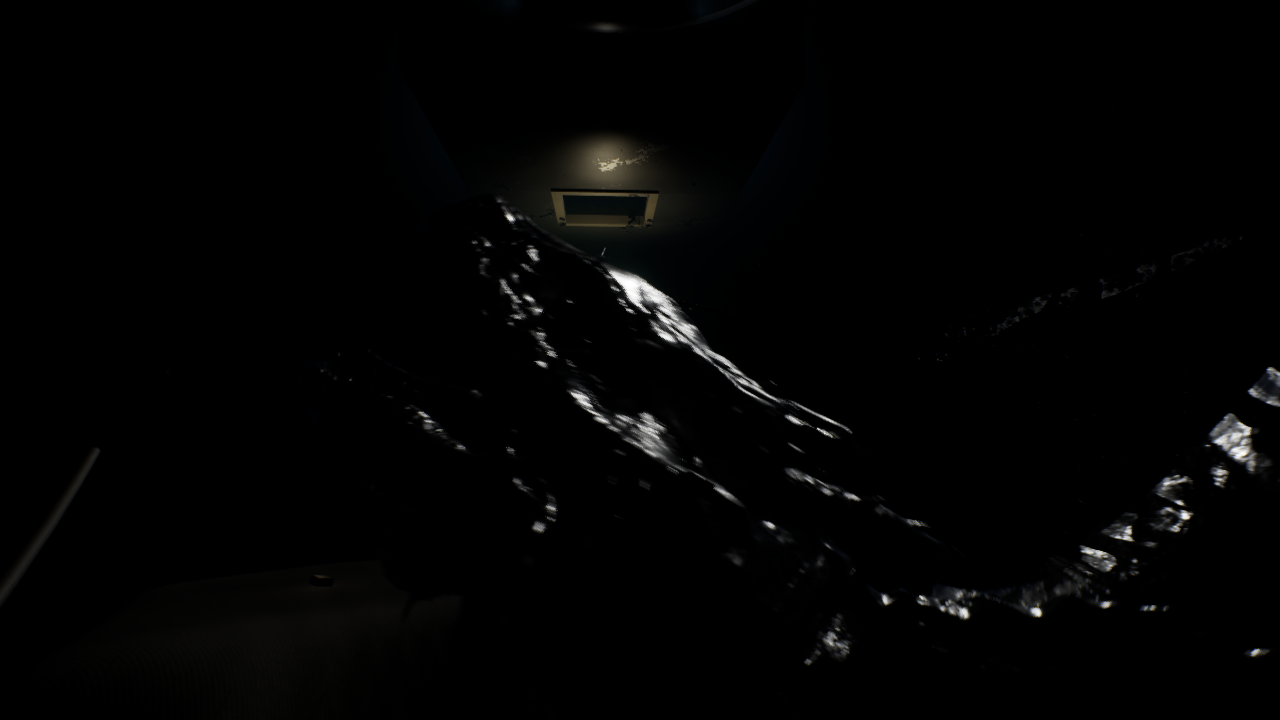
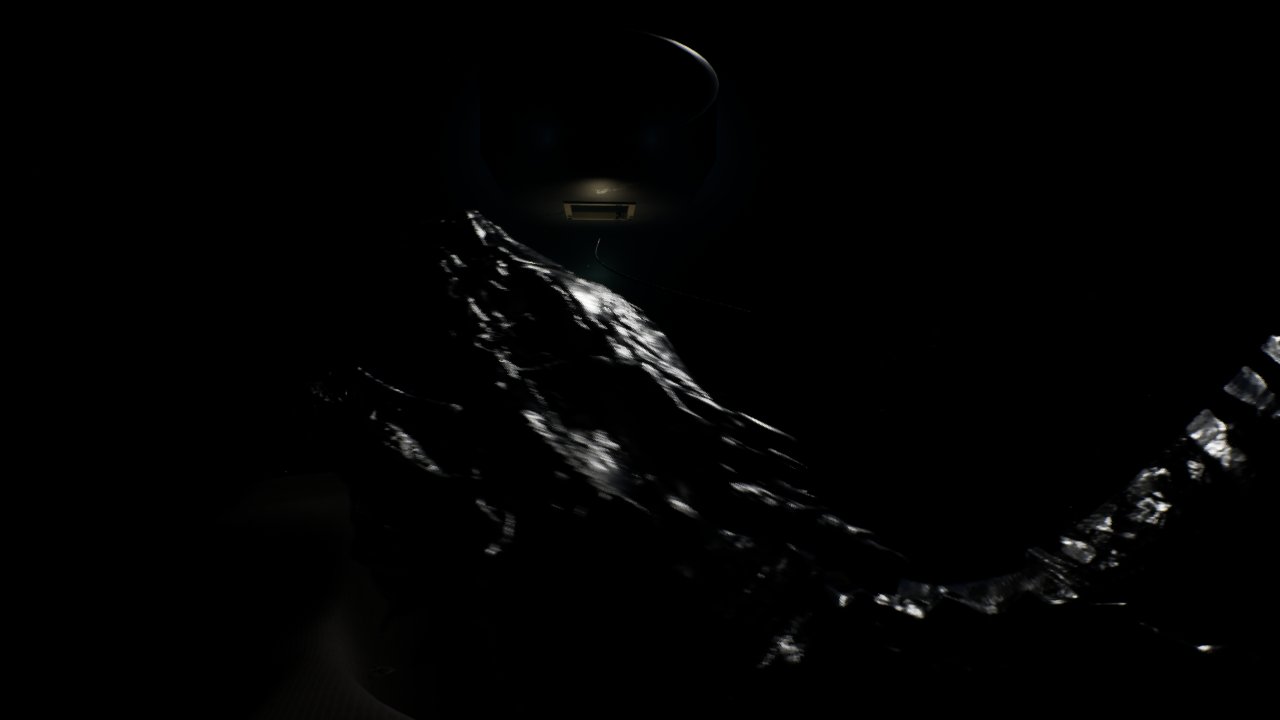
Rope: packaged-build frame, third try at the bite frame, dev log
The cooked game draws the rope (no usage-flag warnings; the rope adds no
material). The bite still does not read in a frame: the serpent's body covers
where the line parts.

diff --git a/deep-claude-brain/05 - Log/Devlog.md b/deep-claude-brain/05 - Log/Devlog.md
@@ -499,7 +499,8 @@ Times are EST. Mark a time "about" when it comes from memory and not from a time
   - `...-rope-cut-captain-1s.png` (stop 1, 100 m, one second after `Deep.ForceCut`): the best frame. The loose end has whipped off to the left, a dark line clearly apart from the lit hatch, against the blue water. `...-cut-captain-0s.png` is 0.12 s after the cut: the line still reaches the hatch; you cannot yet see it part.
   - `...-rope-slack.png`, `...-rope-lag.png`, `...-rope-winch-taut.png` (stop 2, 300 m): a dark worn line from the diver's back to the hatch, lit only where the lamp falls on it; nearer is brighter but no longer glows. Under the winch (diver moving 7 m/s) the line is clean, with no smear or ghosting, so the per-segment motion vectors work.
   - `...-rope-cut-captain-0s-stop2.png`, `...-1s-stop2.png`: at stop 2 the serpent comes in as soon as the line is cut (it hunts a cut diver) and fills the frame. Shoot the Captain's cut at stop 1.
-  - `...-rope-bite-before-plainlight.png`, `...-bite-after-plainlight.png`: the worst. Lamp off (the beam breaks a bite) plus `Deep.Monster.PlainLight 0.6`, a look-dev light that is not in the game. The line parts at link 24 of 35, at the serpent's head (`DEEPROPE parted 24`), but its body covers the place, so the frame does not show the line part. In play the bite happens with the lamp off, so the player will not see it either; the sound and the HUD carry it.
+  - `...-rope-bite-before-plainlight.png`, `...-bite-after-plainlight.png`: the worst. Lamp off (the beam breaks a bite) plus `Deep.Monster.PlainLight 0.6`, a look-dev light that is not in the game. The line parts at the serpent's head (`DEEPROPE parted 24` of 35 in one run, 27 in another), but its body covers the place, so the frame does not show the line part. Third try at 0.15 s spacing (`Deep.Monster.StageBite 8 18`): before, the line runs from the diver into the coils; 0.15 s after, the diver's end has recoiled out of view and the serpent rears; still not a readable parting. In play the bite happens with the lamp off, so the player will not see it either; the sound and the HUD carry it.
+- Packaged build (`ue.ps1 package`, 2 min 32 s, 1046.7 MB on disk; no zip made, this branch adds no assets): one frame from `Builds\Windows\Deep.exe` with the rope staged at stop 2 shows the rope drawn in the cooked game (`devlog/media/2026-11-15-rope-packaged.png`); no `usage flag` line in its log. The rope uses only the engine cylinder and the existing basic-shape material, so it adds no material usage flags.
   - `...-rope-harpoon.png`: the bolt in flight into the silt with its thin grey line behind it.
 - Frame time, stop 2, 1920x1080, ray tracing on, lamp on, the rope in view, 300 frames (CSV profiler), one run each: before (integration head `5ae5f0b`) 6.86 ms per frame (GPU 5.99, game 3.77, render 6.86); after 7.95 ms (GPU 6.07, game 4.46, render 7.92). GPU is the same; the game and render threads pay about 1 ms for 35 segment components moving every frame (and the serpent's path differs run to run). Levers if needed: `Rope.TetherPoints` 36 to 24, or one instanced mesh with per-instance previous transforms.
 - Not done, honestly: bubbles (breath, hatch stream, winch churn) and the silt puff. I read Epic's Niagara `fundamentals`, `renderers` and `blueprint_interop` skills (recipe below) but did not build them: a lit Niagara bubble needs a new translucent material with directional translucency lighting and the Niagara sprite usage flag, a system built from the `SimpleSpriteBurst` template through the editor, and a `Niagara` module dependency in `Deep.Build.cs`. That loop did not fit next to the rope in this slot, and a half-built bubble would break the no-half-done rule. Recipe for whoever does it: CPU sprites, world space (the skill: "Default to World Space unless particles must rigidly follow the actor"), spawn attached at the diver's head on each breath out (the breath loop is `loop_breath` / `loop_breath_fast` in `Audio/DeepAudioRules.h`), material Masked or Translucent with Translucency Lighting Mode directional so roughness works, a bright rim only where the lamp hits, usage flag "Used with Niagara Sprites" set in the build script and read back from the saved asset; pooled with auto-release (the interop skill: "Repeating one-shots must use auto-release pooling").
